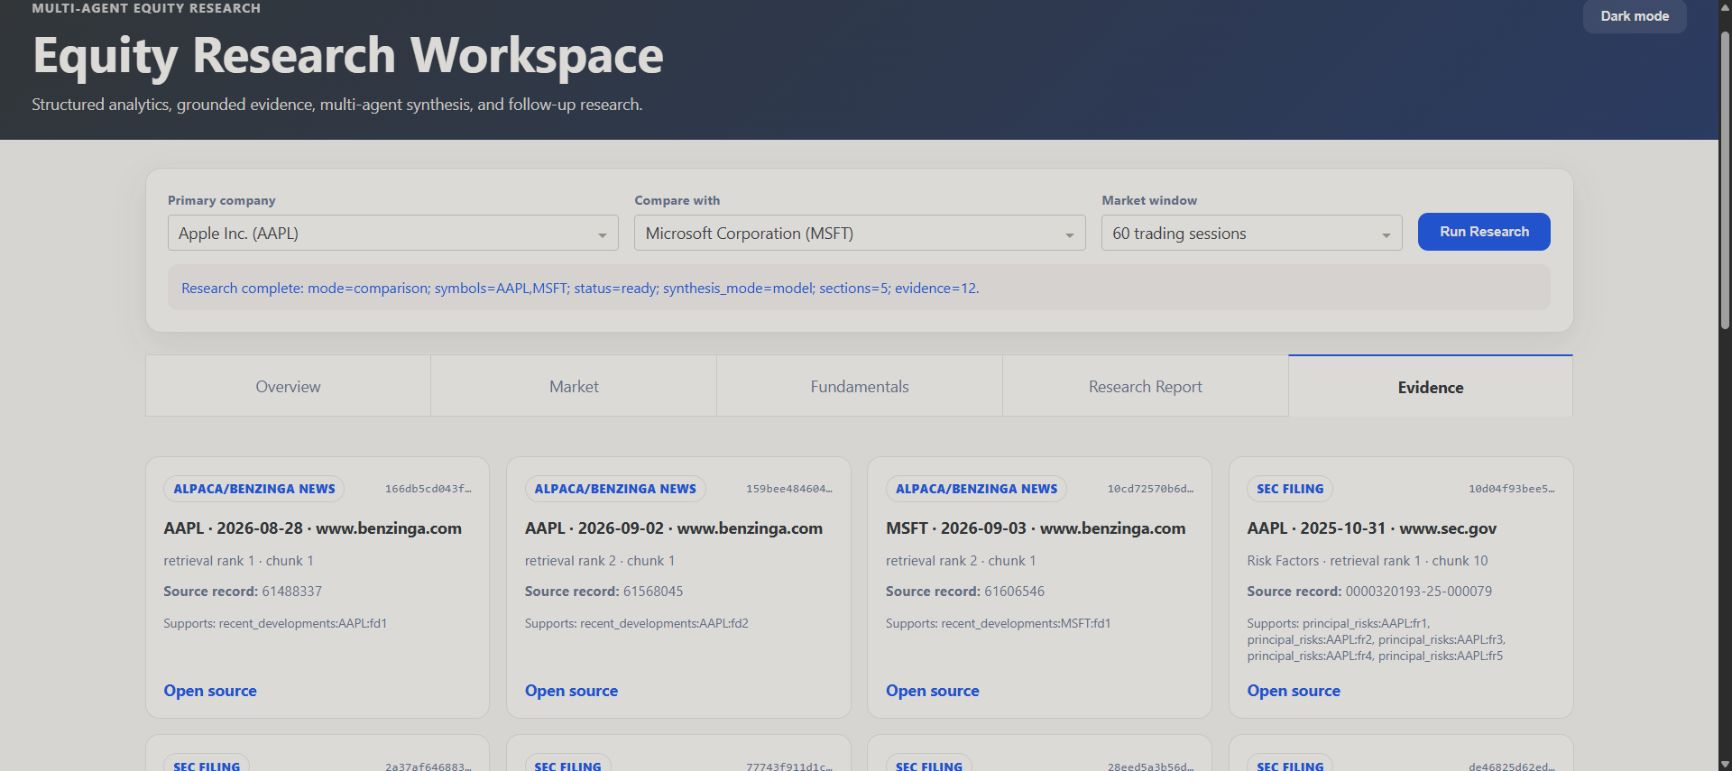
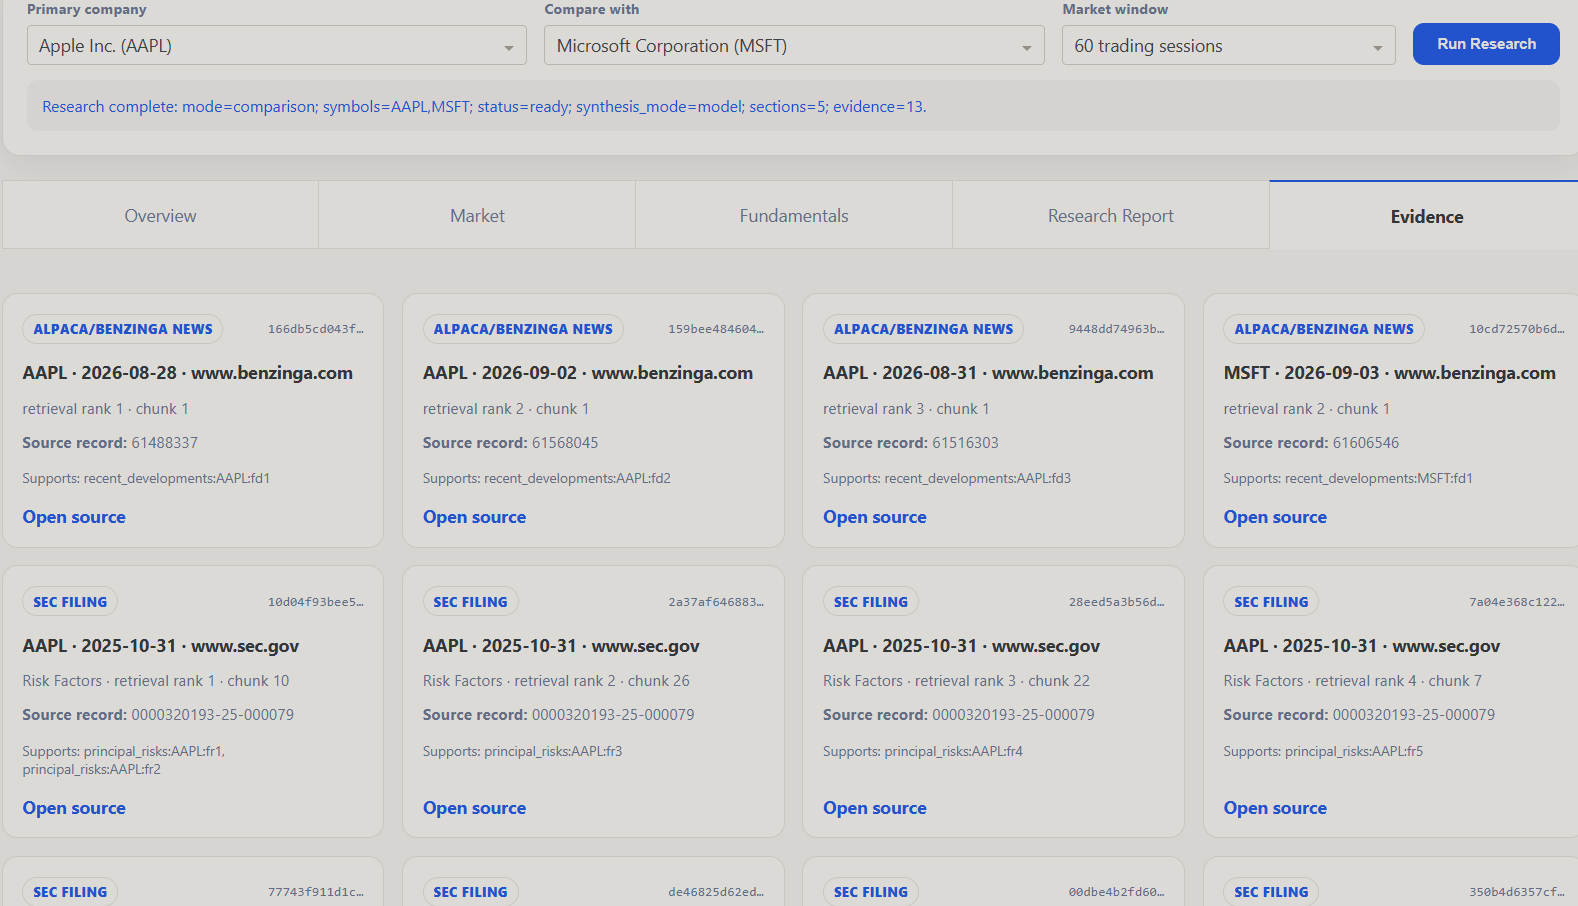
docs: showcase fundamentals and evidence

diff --git a/docs/PORTFOLIO_DEMO.md b/docs/PORTFOLIO_DEMO.md
@@ -28,6 +28,7 @@ The committed publication-safe evidence set is available directly in the reposit
 
 - [Comparison overview](screenshots/01-comparison-overview.png)
 - [Normalized market comparison](screenshots/02-market-comparison.png)
+- [Company fundamentals](screenshots/fundamental-comparison.png)
 - [Validated research report](screenshots/03-research-report.png)
 - [Evidence provenance](screenshots/04-evidence-provenance.png)
 - [Grounded follow-up](screenshots/05-grounded-followup.png)
@@ -100,20 +101,22 @@ This is a live controlled Databricks run, not a static mock.
 
 ### 1:10–1:35 — Structured analytics and market chart
 
-Open **Overview** and **Market**.
+Open **Overview**, **Market**, and **Fundamentals**.
 
-The verified application snapshot included derived structured values such as:
+The refreshed report and fundamentals screenshots show these structured values (market as of 2026-09-11):
 
 | Metric | AAPL | MSFT |
 | --- | ---: | ---: |
-| Close | USD 319.97 | USD 499.70 |
-| 60-session return | 9.74% | 25.75% |
+| Close | USD 332.27 | USD 495.63 |
+| 60-session return | 11.04% | 25.85% |
 | Revenue TTM | USD 466.82B | USD 331.84B |
 | Net margin TTM | 27.62% | 40.31% |
 
 The Market tab also renders validated Silver daily prices normalized to 100 at the
 first aligned close. This makes cross-company performance visually comparable while
 Gold remains the authority for report return/volatility metrics.
+
+The Fundamentals tab adds filing dates, assets, growth, and the explicit TTM derivation so reviewers can see how the financial comparison is grounded.
 
 ### 1:35–2:00 — Validated research report
 
@@ -154,10 +157,10 @@ the evidence presentation contract.
 Ask:
 
 ```text
-What was Apple's 60-session return?
+Which company had the stronger 60-session return, and what were the returns for Apple and Microsoft?
 ```
 
-The verified response returned 9.74% with the controlled structured source.
+The refreshed follow-up screenshot shows MSFT at 25.85% versus AAPL at 11.04%, with both controlled structured source references. Values belong to that saved research session, not a live quote.
 
 Then ask a provenance question:
 
@@ -165,7 +168,7 @@ Then ask a provenance question:
 Which source supports the Apple leasing development and when was it published?
 ```
 
-The verified flow returned the active-session source metadata and publication date
+An earlier verified flow returned the active-session source metadata and publication date
 2026-08-28 with a safe original-source link.
 
 Finally demonstrate the boundary with an out-of-context request such as:

diff --git a/README.md b/README.md
@@ -45,17 +45,37 @@ The MVP will not include trading execution, price prediction, portfolio optimiza
 
 ## Portfolio preview
 
+Follow the app workflow: **Overview → Market → Fundamentals → Research Report → Evidence → Follow-up**. Screenshots show saved demonstration runs; values reflect their displayed data dates. Click an image to inspect it at full resolution.
+
 ### AAPL vs MSFT research workspace
+
+Select two companies and a market window to generate a structured research comparison.
 
 ![AAPL vs MSFT comparison overview](docs/screenshots/01-comparison-overview.png)
 
 ### Normalized market comparison
 
+Compare price performance on a common starting value of 100 using validated daily prices.
+
 ![AAPL vs MSFT normalized 60-session market comparison](docs/screenshots/02-market-comparison.png)
+
+### Company fundamentals
+
+Compare SEC-derived revenue, net income, margins, assets, and growth, with filing dates and trailing-twelve-month derivation shown explicitly.
+
+![AAPL and MSFT fundamental metrics with filing dates and TTM derivation](docs/screenshots/fundamental-comparison.png)
 
 ### Validated cited research report
 
+Read the synthesized market and fundamental findings, with section status and supporting finding references.
+
 ![Validated AAPL vs MSFT research report](docs/screenshots/03-research-report.png)
+
+### Evidence and source provenance
+
+Inspect the news and SEC filing references behind the findings: company, date, retrieval rank, source record, and original-source link, without exposing raw article bodies.
+
+![News and SEC filing evidence cards with source provenance and supported finding references](docs/screenshots/04-evidence-provenance.png)
 
 ### Grounded follow-up assistant
 
